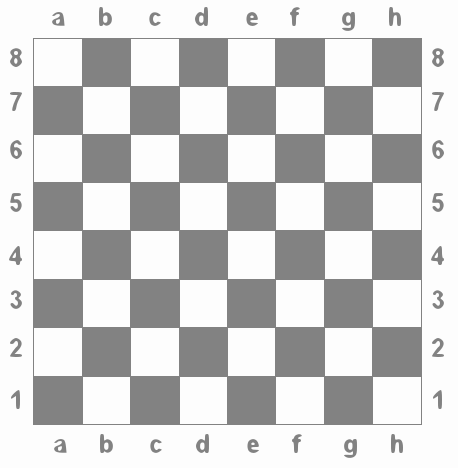
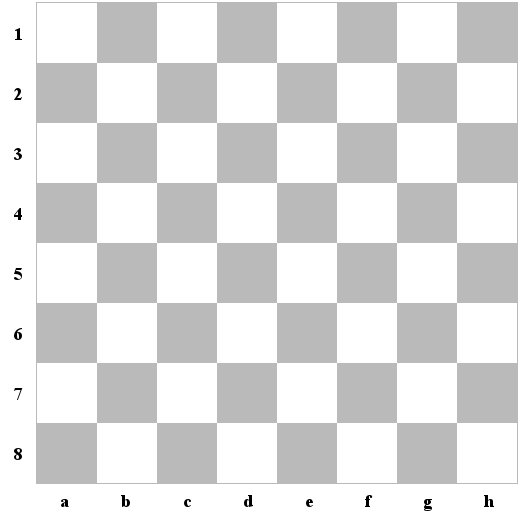
improved graphics, chessboard coordinates redefined, added blind field

diff --git a/ChessDiagramEditor/Chessboard.java b/ChessDiagramEditor/Chessboard.java
@@ -21,8 +21,12 @@ public class Chessboard extends JComponent
 	{
 		//URL url = ChessDiagramEditor.class.getResource("/ChessDiagramEditor/xresources/chessboard.png");
 		//backgroundImage = ImageIO.read(url);
-		backgroundImage = ImageIO.read(new File("/home/jtc/Stažené/Chess/chessboard.png"));
-		setPreferredSize(new Dimension(458,468));
+		
+		backgroundImage = ImageIO.read(getClass().getResource("resources/chessboard.png"));
+		
+		//backgroundImage = ImageIO.read(new File("/home/jtc/Stažené/Chess/chessboard.png"));
+
+		setPreferredSize(new Dimension(520,520));
 	}
 
 	@Override
@@ -37,20 +41,14 @@ public class Chessboard extends JComponent
 			for (int x = 1; x <= 8; x++) {
 
 				try {
-					
 					ChessboardItem item = board.getItem(x,y,0);
 
-					int locx = (x-1)*48+33;
-					int locy = (y-1)*48+38;
+					int locx = (x-1)*60+37;
+					int locy = (y-1)*60+3;
 
 					if (item != null) {
-						/*graphics.setColor(Color.blue);
-						graphics.fillOval(locx+24, locy+24, 6, 6);*/
-
 						try {
-
-							System.out.println("v:"+item.variant);
-							Image figure = ImageIO.read(new File("/home/jtc/Stažené/Chess/figures/"+Figures.figures[item.variant]));
+							Image figure = ImageIO.read(getClass().getResource("resources/"+Figures.figures[item.variant]));
 							graphics.drawImage(figure,locx,locy, this);
 						} catch(IOException exc) {}
 					}
@@ -63,9 +61,9 @@ public class Chessboard extends JComponent
 
 	public static Point getBoardField(Point point) throws NoPointException
 	{
-		int boardTopLeftX = 36;
-		int boardTopLeftY = 41;
-		int gridSize = 48;
+		int boardTopLeftX = 37;
+		int boardTopLeftY = 3;
+		int gridSize = 60;
 
 		if (point.x < boardTopLeftX || point.y < boardTopLeftY) {
 			throw new NoPointException("No point.");

diff --git a/ChessDiagramEditor/ChessDiagramEditor.java b/ChessDiagramEditor/ChessDiagramEditor.java
@@ -32,7 +32,7 @@ public class ChessDiagramEditor {
 	{
 		JFrame frame = new JFrame("Chessboard Diagram Editor");
 		frame.setLayout(new FlowLayout());
-		frame.setSize(710, 500);
+		frame.setSize(750, 560);
 		//frame.setLocationRelativeTo(null);
 		frame.setDefaultCloseOperation(JFrame.EXIT_ON_CLOSE);
 
@@ -40,11 +40,11 @@ public class ChessDiagramEditor {
 
 			DefaultListModel figuresListModel = new DefaultListModel();
 
-			for (int i = 0; i < 12; i++)
+			for (int i = 0; i < 13; i++)
 			{
 				//System.out.println(Figures.figures);
 
-				ImageIcon figure = new ImageIcon(ImageIO.read(new File("/home/jtc/Stažené/Chess/figures/"+Figures.figures[i])));
+				ImageIcon figure = new ImageIcon(ImageIO.read(getClass().getResource("resources/"+Figures.figures[i])));
 				figuresListModel.add(i, figure);
 			}
 

diff --git a/ChessDiagramEditor/Figures.java b/ChessDiagramEditor/Figures.java
@@ -22,12 +22,13 @@ public final class Figures {
 	public static final int BISHOP_B = 9;
 	public static final int KNIGHT_B = 10;
 	public static final int PAWN_B = 11;
+	public static final int BLIND_FIELD = 12;
 
 	public static String[] figures = initializeFigures();
 
 	private static String[] initializeFigures()
 	{
-		String[] figures = new String[12];
+		String[] figures = new String[13];
 
 		figures[KING_W] = "Chess_klt60.png";
 		figures[QUEEN_W] = "Chess_qlt60.png";
@@ -41,6 +42,7 @@ public final class Figures {
 		figures[BISHOP_B] = "Chess_bdt60.png";
 		figures[KNIGHT_B] = "Chess_ndt60.png";
 		figures[PAWN_B] = "Chess_pdt60.png";
+		figures[BLIND_FIELD] = "blindfield.png";
 
 		return figures;
 	}
